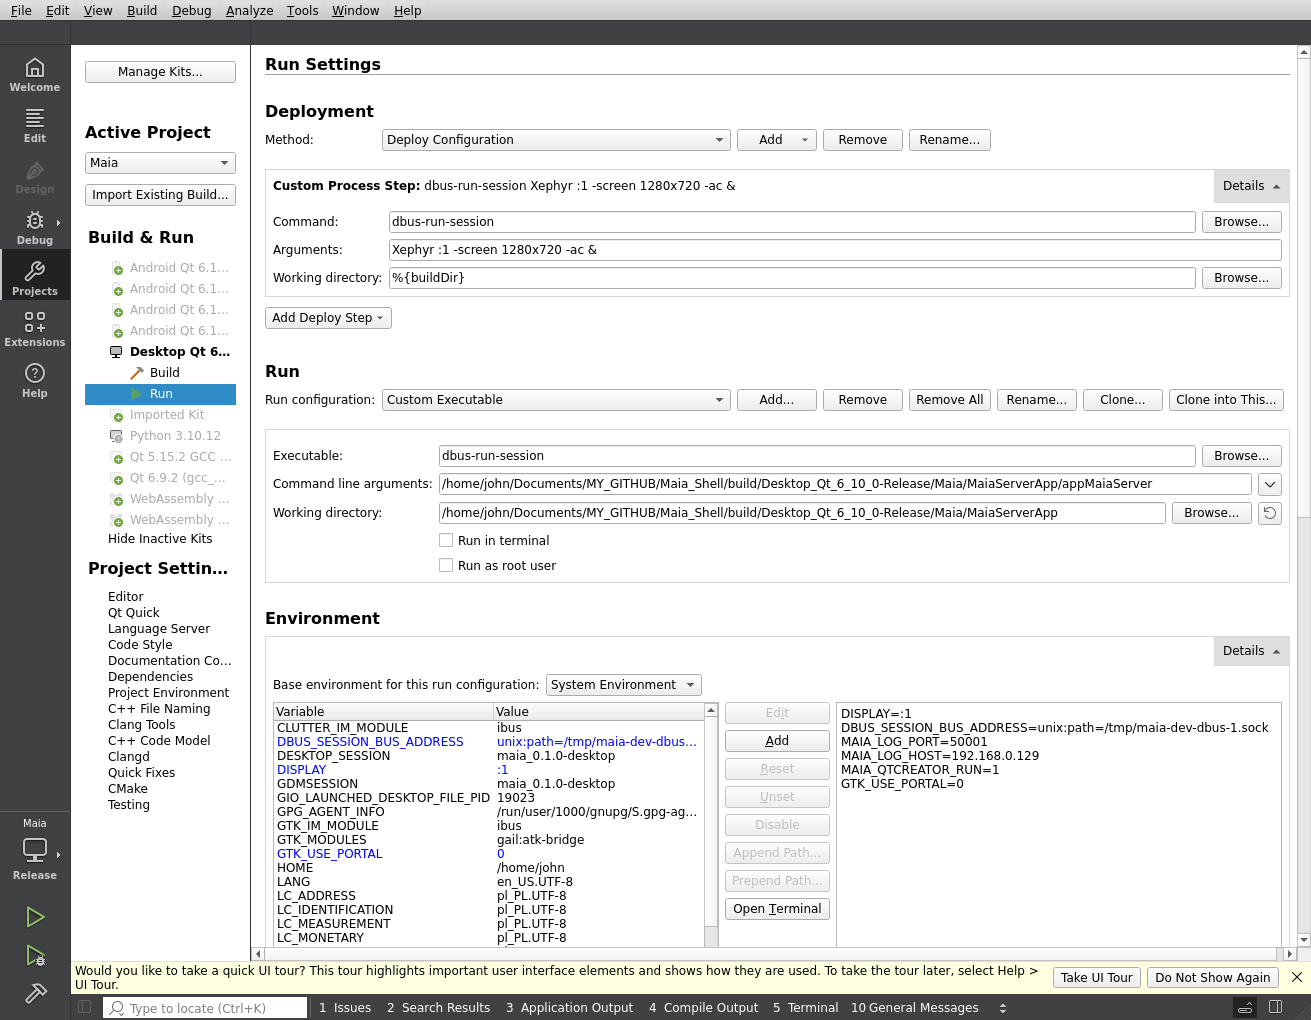
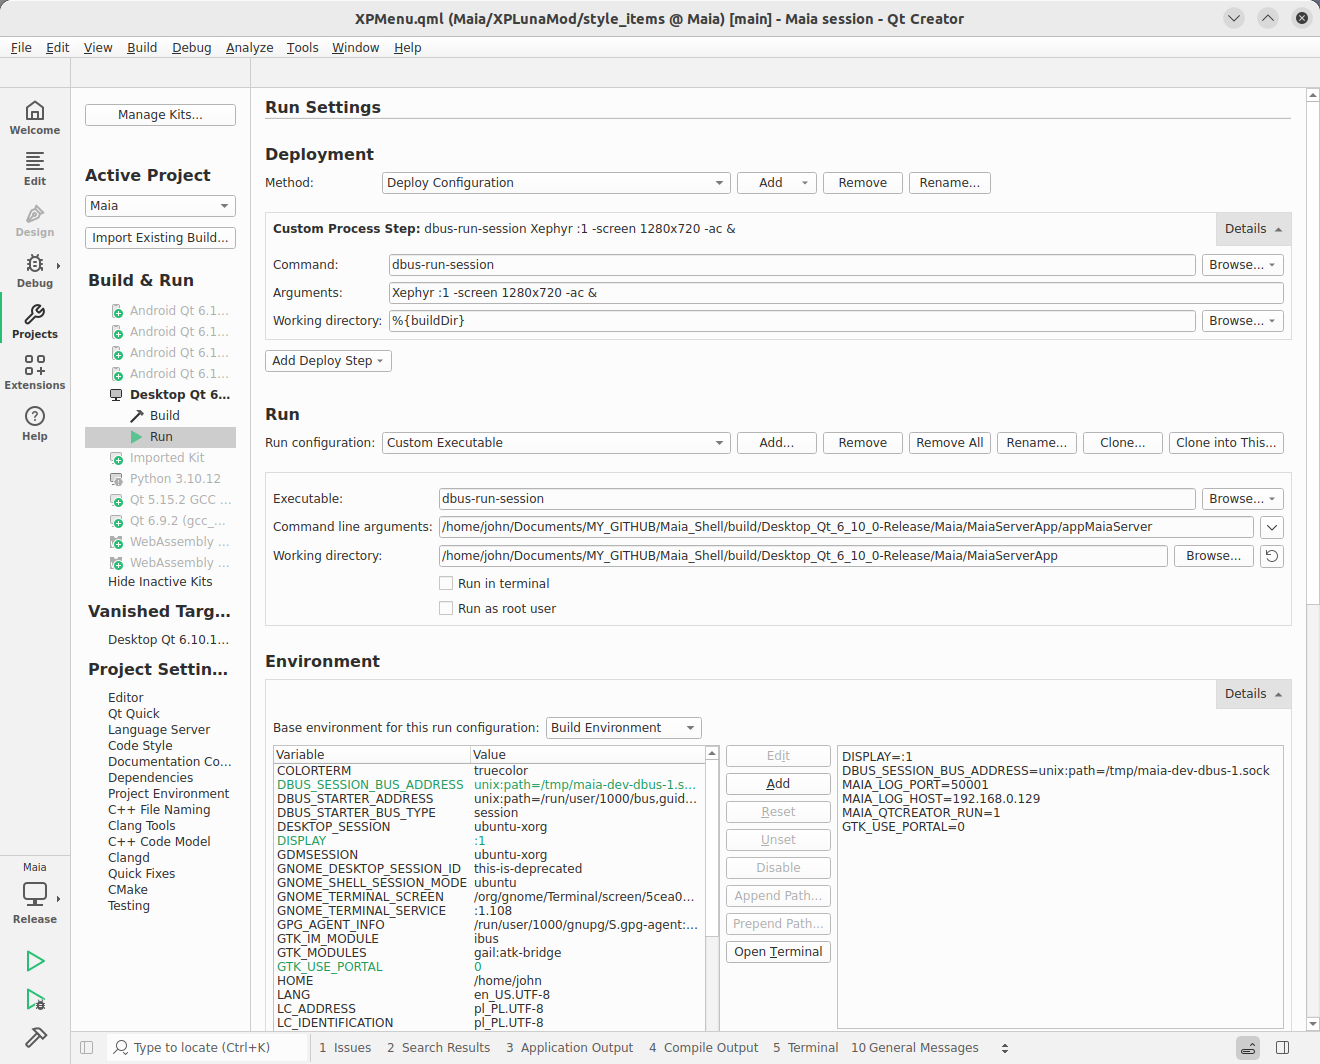
Update README.md

Changed region(s): [[0.0, 0.0, 1.0, 1.0], [0.9153, 0.6078, 1.0, 0.6686]]

diff --git a/README.md b/README.md
@@ -59,6 +59,30 @@ sudo ./install_on_ubuntu.sh
 
 
 
+## Contribution
+
+### Upgrade Qt version
+
+1. Install new Qt version
+2. Remove deploy dir: rm -r ~/Maia_deploy/
+3. Open CMakeLists.txt (from top level repository dir) in Qt Creator
+4. Configure project
+
+<img src="doc/qtcreator_configure_maia_shell_qt_upgrade.png" width="400" alt="Configure project">
+
+5. Setup Build & Run as following
+
+<img src="doc/upgrade_qt_configure_build_settings.png" width="400" alt="Configure Build Settings">
+
+<img src="doc/upgrade_qt_configure_deploy_settings.png" width="400" alt="Configure Deploy Settings">
+
+<img src="doc/upgrade_qt_configure_run_settings.png" width="400" alt="Configure Run Settings">
+
+
+
+
+
+
 
 
 
